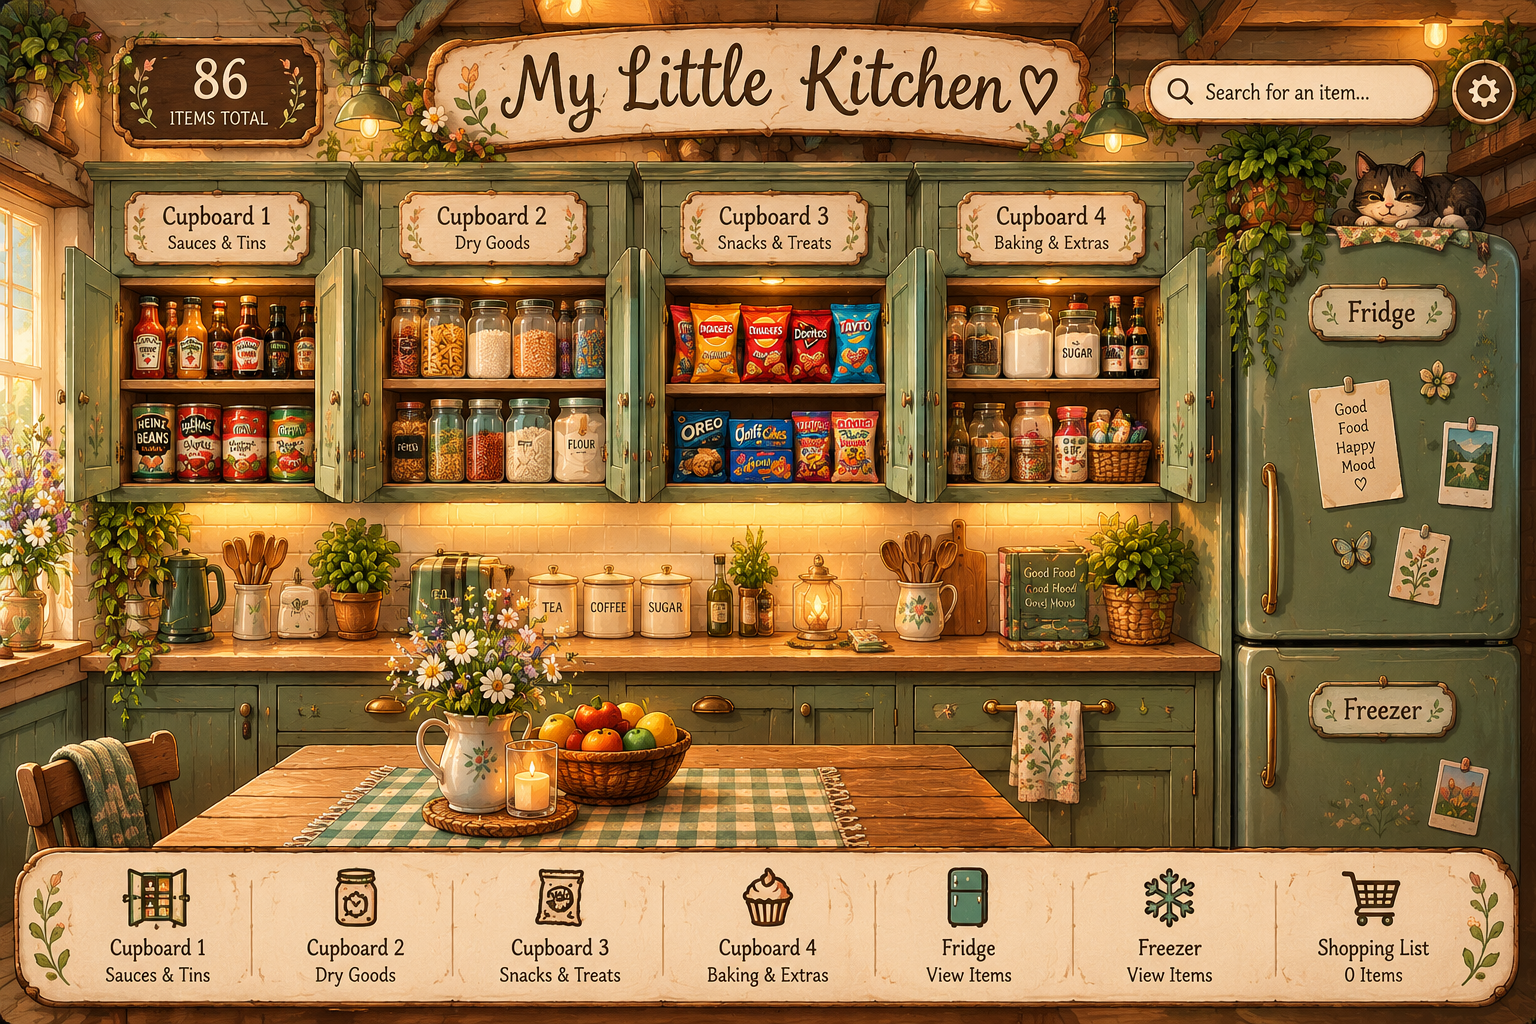
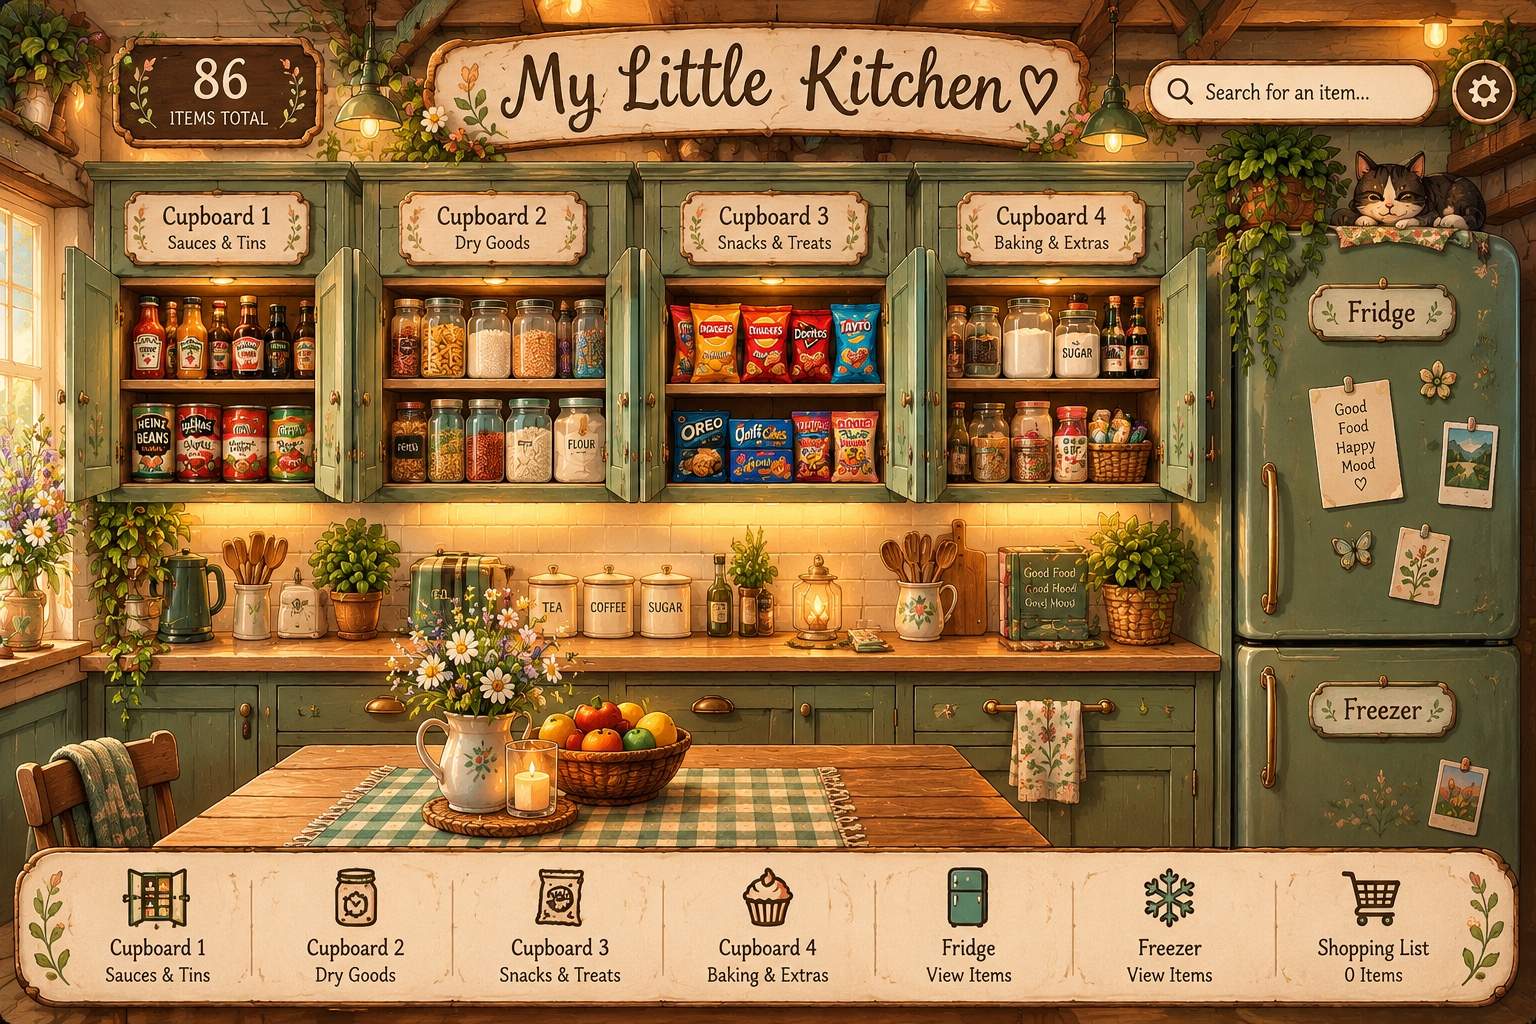
Add files via upload

diff --git a/index.html b/index.html
@@ -1,9 +1,31 @@
 <!doctype html><html lang="en"><head><meta charset="utf-8"><meta name="viewport" content="width=device-width,initial-scale=1"><meta name="theme-color" content="#6c7856"><title>My Little Kitchen · Cottagecore</title><style>
 *{box-sizing:border-box}body{margin:0;background:#eee5d2;color:#423a2b;font-family:Georgia,serif}.shell{max-width:1400px;margin:auto}.intro{text-align:center;padding:12px}.intro h1{font-size:23px;margin:4px}.intro p{font-size:13px;margin:5px}.scene{position:relative;width:100%;aspect-ratio:1536/1024;background:#a4a28a url("kitchen.png") center/100% 100% no-repeat}.hotspot{position:absolute;background:transparent;border:0;cursor:pointer;touch-action:manipulation;border-radius:12px}.hotspot:focus-visible{outline:4px solid #fff3a8}.hotspot:active{background:#ffffff44}.one{left:4%;top:16%;width:17%;height:32%}.two{left:23%;top:16%;width:17%;height:32%}.three{left:42%;top:16%;width:17%;height:32%}.four{left:61%;top:16%;width:17%;height:32%}.fridge{left:81%;top:15%;width:18%;height:46%}.freezer{left:81%;top:61%;width:18%;height:22%}.panel{margin:10px auto 24px;max-width:850px;background:#fff9e9;border:3px solid #b6a17b;border-radius:20px;padding:18px;box-shadow:0 6px 20px #766e4a22}.toolbar{display:flex;align-items:center;justify-content:space-between;gap:10px}.toolbar h2{margin:0;font-size:22px}.muted{font:13px system-ui;color:#7b705f}input{width:100%;padding:12px;margin:12px 0;border:1px solid #c7b99c;border-radius:10px;font:16px system-ui}.entry{display:flex;gap:9px;align-items:center;padding:10px 0;border-bottom:1px solid #e7ddc9;font:14px system-ui}.entry .name{flex:1}.qty{min-width:26px;text-align:center;font-weight:bold}.btn{background:#6f8563;color:white;border:0;border-radius:9px;padding:10px 13px;font:600 14px system-ui;cursor:pointer}.adjust{background:#e8dfc9;color:#493d2d;min-width:35px}.status{text-align:center;padding:14px;color:#786c59;font-size:13px}.foot{text-align:center;font:12px system-ui;color:#746b5b;padding:8px 15px 25px}.actions{display:flex;gap:8px;flex-wrap:wrap;margin-top:12px}#drawer{display:none}#drawer:target{display:block} @media(max-width:650px){.panel{margin:8px 8px 24px;padding:13px}.intro h1{font-size:19px}.toolbar h2{font-size:19px}.scene{min-width:0}}
-</style></head><body><div class="shell"><div class="intro"><h1>🌿 My Little Kitchen</h1><p>Tap a cupboard or appliance to explore your inventory · Best viewed in landscape</p></div><div class="scene" aria-label="Cottagecore kitchen illustration"><button class="hotspot one" data-place="1 · Sauces & tins" aria-label="Open cupboard one"></button><button class="hotspot two" data-place="2 · Rice, pasta & kits" aria-label="Open cupboard two"></button><button class="hotspot three" data-place="3 · Snacks & herbs" aria-label="Open cupboard three"></button><button class="hotspot four" data-place="4 · Tea & drinks" aria-label="Open cupboard four"></button><button class="hotspot fridge" data-place="Fridge" aria-label="Open fridge"></button><button class="hotspot freezer" data-place="Freezer" aria-label="Open freezer"></button></div><section class="panel" id="stock"><div class="toolbar"><div><h2 id="heading">Cupboard 1 · Sauces & tins</h2><div class="muted" id="count"></div></div><button class="btn" id="add">+ Add</button></div><input id="search" type="search" placeholder="Search products in this space…" aria-label="Search inventory"><div id="items"></div><div class="actions"><button class="btn" id="export">Download inventory backup</button></div></section><div class="foot">Prototype: The illustration is decorative; product names and quantities below are your actual recorded inventory. Data is saved locally in this browser, not synced across devices. Keep a backup.</div></div><script>
+
+/* Interactive cupboard fronts. Each closed overlay disappears when opened. */
+.door{position:absolute;top:26.95%;height:22.17%;pointer-events:none;object-fit:fill;transition:opacity .24s ease,transform .24s ease;transform-origin:left center;z-index:1;filter:drop-shadow(0 1px 2px #30231455)}
+.door.one{left:6.05%;width:15.50%}.door.two{left:24.93%;width:15.63%}.door.three{left:42.58%;width:15.30%}.door.four{left:60.42%;width:15.17%}
+.door.open{opacity:0;transform:perspective(600px) rotateY(-18deg)}
+.hotspot{z-index:2}.hotspot[aria-expanded="true"]{outline:3px solid #fff1acaa;outline-offset:-3px}
+#stock[hidden]{display:none}.panel-close{margin-left:8px}.scene-note{text-align:center;font:13px system-ui;padding:8px 10px;color:#625841}
+</style></head><body><div class="shell"><div class="intro"><h1>🌿 My Little Kitchen</h1><p>Tap a cupboard to open it · Opening another closes the first · Best viewed in landscape</p></div><div class="scene" aria-label="Cottagecore kitchen illustration"><img class="door one" id="door1" src="cupboard_closed_1.png" alt="" aria-hidden="true"><img class="door two" id="door2" src="cupboard_closed_2.png" alt="" aria-hidden="true"><img class="door three" id="door3" src="cupboard_closed_3.png" alt="" aria-hidden="true"><img class="door four" id="door4" src="cupboard_closed_4.png" alt="" aria-hidden="true"><button class="hotspot one" data-place="1 · Sauces & tins" aria-label="Open cupboard one"></button><button class="hotspot two" data-place="2 · Rice, pasta & kits" aria-label="Open cupboard two"></button><button class="hotspot three" data-place="3 · Snacks & herbs" aria-label="Open cupboard three"></button><button class="hotspot four" data-place="4 · Tea & drinks" aria-label="Open cupboard four"></button><button class="hotspot fridge" data-place="Fridge" aria-label="Open fridge"></button><button class="hotspot freezer" data-place="Freezer" aria-label="Open freezer"></button></div><div class="scene-note" id="hint">Tap a cupboard to open it. Only one can be open at a time.</div><section class="panel" id="stock" hidden><div class="toolbar"><div><h2 id="heading">Cupboard 1 · Sauces & tins</h2><div class="muted" id="count"></div></div><div><button class="btn" id="add">+ Add</button><button class="btn panel-close" id="close">Close ✕</button></div></div><input id="search" type="search" placeholder="Search products in this space…" aria-label="Search inventory"><div id="items"></div><div class="actions"><button class="btn" id="export">Download inventory backup</button></div></section><div class="foot">Cupboard doors are interactive; the product names and quantities below are your actual recorded inventory. Data is saved locally in this browser, not synced across devices. Keep a backup.</div></div><script>
 const initial={"1 · Sauces & tins": [{"name": "Dolmio family Bolognese", "qty": 1}, {"name": "Large passata", "qty": 2}, {"name": "Old El Paso fajita dry seasoning", "qty": 1}, {"name": "Sharwood's Thai green curry sauce", "qty": 1}, {"name": "Sharwood's Japanese teriyaki", "qty": 2}, {"name": "Large sweet chilli sauce", "qty": 1}, {"name": "Jalapeños jars", "qty": 2}, {"name": "Cocktail cherries", "qty": 1}, {"name": "Sriracha", "qty": 1}, {"name": "Teriyaki cooking sauce", "qty": 1}, {"name": "Sesame wok oil", "qty": 1}, {"name": "Bloody Mary ketchup", "qty": 1}, {"name": "Small sweet chilli sauce", "qty": 1}, {"name": "Jack Daniel's BBQ sauce", "qty": 1}, {"name": "Blue Dragon white rice vinegar", "qty": 1}, {"name": "Reduced soy sauce", "qty": 1}, {"name": "Light soy sauce", "qty": 1}, {"name": "Oyster sauce", "qty": 1}, {"name": "Large lime juice", "qty": 1}, {"name": "Small lemon juice", "qty": 1}, {"name": "Stuffed olives", "qty": 1}, {"name": "Mint sauce", "qty": 1}, {"name": "Beans with sausages", "qty": 4}, {"name": "Heinz tomato soup", "qty": 2}, {"name": "Old El Paso black beans", "qty": 1}, {"name": "Light coconut milk", "qty": 1}, {"name": "Mixed beans", "qty": 1}, {"name": "Chickpeas in water", "qty": 1}, {"name": "Small sweetcorn tins", "qty": 2}, {"name": "Sliced pineapple tin", "qty": 1}, {"name": "Caramelised red onion chutney", "qty": 1}, {"name": "Aspall raw apple cider vinegar", "qty": 1}, {"name": "Organic coconut oil", "qty": 1}, {"name": "Gravy granules (half full)", "qty": 1}], "2 · Rice, pasta & kits": [{"name": "Large basmati rice", "qty": 1}, {"name": "Spanish-style microwave grains", "qty": 2}, {"name": "Uncle Ben's sticky microwave rice", "qty": 1}, {"name": "Dry medium egg noodles", "qty": 1}, {"name": "Dry ramen noodles", "qty": 1}, {"name": "Ready-to-wok wide noodles", "qty": 1}, {"name": "Ready-to-wok medium noodles", "qty": 2}, {"name": "Instant chicken noodles", "qty": 4}, {"name": "Large penne pack", "qty": 1}, {"name": "Rigatoni (half pack)", "qty": 1}, {"name": "Spirali (half pack)", "qty": 1}, {"name": "Fusilli (half pack)", "qty": 1}, {"name": "Pappardelle", "qty": 1}, {"name": "Old El Paso rice meal kit", "qty": 1}, {"name": "Old El Paso taco shells", "qty": 12}, {"name": "Old El Paso guacamole", "qty": 1}, {"name": "Old El Paso salsa", "qty": 1}, {"name": "Instant pasta Cup Shots", "qty": 4}, {"name": "Instant custard", "qty": 3}, {"name": "Chocolate Angel Delight", "qty": 1}, {"name": "Assorted stock cube packs", "qty": 4}, {"name": "Sloppy Joe's kit", "qty": 1}, {"name": "Yeo crispy chicken kit", "qty": 1}, {"name": "Knorr Succulent Chicken pots", "qty": 4}, {"name": "Bahian coconut curry kit", "qty": 1}, {"name": "Chicken udon kit", "qty": 1}, {"name": "Thai green curry paste", "qty": 1}, {"name": "Thai red curry paste", "qty": 1}, {"name": "Salt and pepper seasoning", "qty": 1}, {"name": "Spaghetti Bolognese seasoning", "qty": 1}, {"name": "Hollandaise sauce kit", "qty": 1}, {"name": "Smoky BBQ seasoning", "qty": 1}, {"name": "Beef casserole seasoning", "qty": 1}, {"name": "Southern-style chicken coating", "qty": 1}, {"name": "Honey roast vegetable seasoning", "qty": 1}, {"name": "Large red lentils", "qty": 1}], "3 · Snacks & herbs": [{"name": "Cheese twists", "qty": 1}, {"name": "Ryvita sesame crispbread", "qty": 1}, {"name": "Marshmallows (half pack)", "qty": 1}, {"name": "Galaxy drinking chocolate (half full)", "qty": 1}, {"name": "White bread rolls", "qty": 6}, {"name": "Large pickles jar", "qty": 1}, {"name": "Garlic and herb air fryer seasoning", "qty": 1}, {"name": "Garlic salt", "qty": 1}, {"name": "Thyme", "qty": 1}, {"name": "Parsley", "qty": 1}, {"name": "Nesquik milk flavouring", "qty": 1}], "4 · Tea & drinks": [{"name": "Tetley tea bags (approximate)", "qty": 60}, {"name": "Large mango boba bubble tea", "qty": 1}, {"name": "Chamomile tea bags", "qty": 20}, {"name": "Kenco pumpkin spice latte sachets", "qty": 8}, {"name": "Green tea (open pack)", "qty": 1}], "Fridge": [], "Freezer": []};
 let stock;try{stock=JSON.parse(localStorage.getItem('little-kitchen-cottage-v1'))||initial}catch(e){stock=initial}
 let place=Object.keys(initial)[0];const el=id=>document.getElementById(id);const save=()=>{try{localStorage.setItem('little-kitchen-cottage-v1',JSON.stringify(stock))}catch(e){alert('This browser cannot save edits. Please download a backup.')}};
 function render(){const arr=stock[place];el('heading').textContent=place;el('count').textContent=arr.length+' product types';el('items').replaceChildren();const filtered=arr.filter(x=>x.name.toLowerCase().includes(el('search').value.toLowerCase()));if(!filtered.length){const p=document.createElement('p');p.className='status';p.textContent='Nothing here yet — you can add items.';el('items').append(p)}filtered.forEach(x=>{const row=document.createElement('div');row.className='entry';const name=document.createElement('span');name.className='name';name.textContent=x.name;const minus=document.createElement('button');minus.className='btn adjust';minus.textContent='−';minus.setAttribute('aria-label','Decrease '+x.name);minus.onclick=()=>{x.qty=Math.max(0,x.qty-1);save();render()};const qty=document.createElement('span');qty.className='qty';qty.textContent=x.qty;const plus=document.createElement('button');plus.className='btn adjust';plus.textContent='+';plus.setAttribute('aria-label','Increase '+x.name);plus.onclick=()=>{x.qty++;save();render()};row.append(name,minus,qty,plus);el('items').append(row)})}
-document.querySelectorAll('[data-place]').forEach(b=>b.addEventListener('click',()=>{place=b.dataset.place;el('search').value='';render();el('stock').scrollIntoView({behavior:'smooth',block:'start'})}));el('search').oninput=render;el('add').onclick=()=>{let n=prompt('What product would you like to add?');if(n&&n.trim()){stock[place].push({name:n.trim(),qty:1});save();render()}};el('export').onclick=()=>{const blob=new Blob([JSON.stringify(stock,null,2)],{type:'application/json'}),a=document.createElement('a');a.href=URL.createObjectURL(blob);a.download='my-little-kitchen-backup.json';a.click();setTimeout(()=>URL.revokeObjectURL(a.href),1000)};render();
+let openPlace=null;
+const buttons=[...document.querySelectorAll('[data-place]')];
+function showPlace(next){
+  openPlace=(openPlace===next)?null:next;
+  buttons.forEach((b,i)=>{
+    const active=b.dataset.place===openPlace;
+    b.setAttribute('aria-expanded',String(active));
+    if(i<4)el('door'+(i+1)).classList.toggle('open',active);
+  });
+  el('stock').hidden=!openPlace;
+  el('hint').textContent=openPlace?'Currently open: '+openPlace+' · Tap again to close, or choose another.':'Tap a cupboard to open it. Only one can be open at a time.';
+  if(openPlace){place=openPlace;el('search').value='';render();el('stock').scrollIntoView({behavior:'smooth',block:'start'});}
+}
+buttons.forEach(b=>{b.setAttribute('aria-expanded','false');b.addEventListener('click',()=>showPlace(b.dataset.place));});
+el('close').onclick=()=>{if(openPlace)showPlace(openPlace)};
+el('search').oninput=render;el('add').onclick=()=>{let n=prompt('What product would you like to add?');if(n&&n.trim()){stock[place].push({name:n.trim(),qty:1});save();render()}};el('export').onclick=()=>{const blob=new Blob([JSON.stringify(stock,null,2)],{type:'application/json'}),a=document.createElement('a');a.href=URL.createObjectURL(blob);a.download='my-little-kitchen-backup.json';a.click();setTimeout(()=>URL.revokeObjectURL(a.href),1000)};render();
 </script></body></html>
